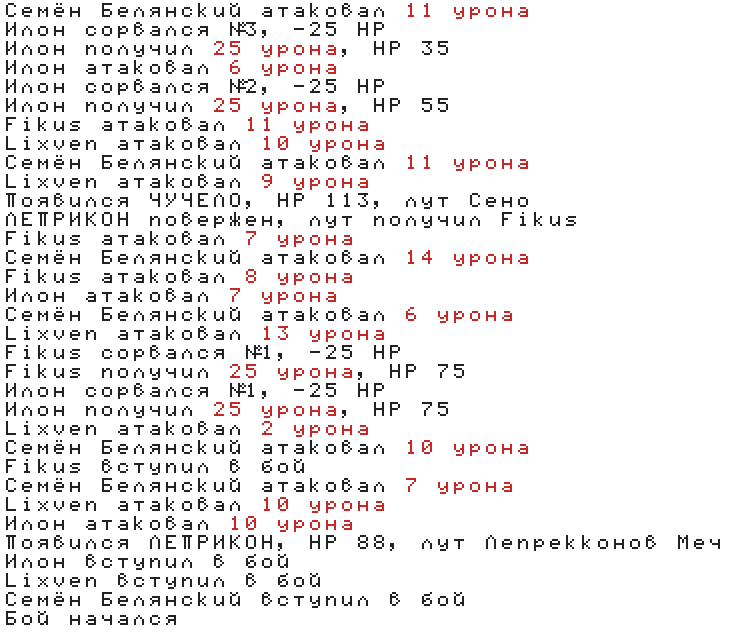
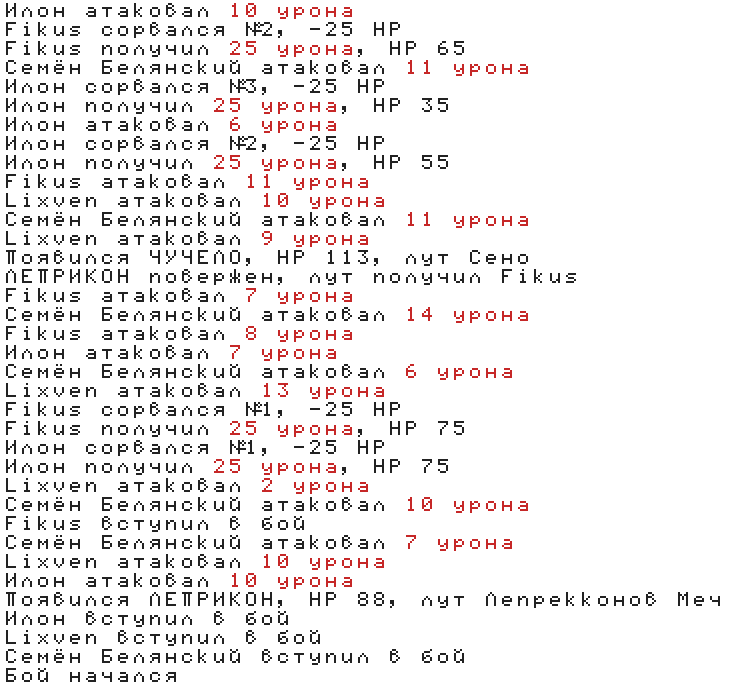
Обновление темы 2026-10-04 01:54 UTC

diff --git a/topic.html b/topic.html
@@ -11,7 +11,7 @@
  .author{font-weight:600} .when{color:#888;font-size:14px}
  .body{white-space:pre-wrap}
 </style></head><body><div class="wrap"><h1>[Команда] ЗАКОН КУБА - Ролевые игры без онанизма</h1>
-<div style="color:#666;font-size:14px;margin-bottom:20px">Постов: 35 · обновлено 03.10.2026 22:29</div>
+<div style="color:#666;font-size:14px;margin-bottom:20px">Постов: 37 · обновлено 04.10.2026 04:54</div>
 <div class="post" id="post-2717316"><div class="head"><span class="author">Семён Белянский</span><span class="when">2026-09-16T12:46:27+00:00</span></div><div class="body">И снова здравствуйте!
 У меня есть по моему мнению замечательное предложение. Было бы очень круто, если некоторые Ведущие брали бы старые Команды (лучше всего ролевые), и восстанавливали их! То есть, брали бы, писали бы в заголовке например: [Восстановленная команда] (название).
 И в правилах Команды написали бы, что ранее уже была точно такая же команда, давали бы ссылку на неё... А потом правила.
@@ -105,4 +105,6 @@
 !срыв 02.10</div></div>
 <div class="post" id="post-2720396"><div class="head"><span class="author">Семён Белянский</span><span class="when">2026-10-03T08:17:14+00:00</span></div><div class="body">+атака</div></div>
 <div class="post" id="post-2720511"><div class="head"><span class="author">Lixven</span><span class="when">2026-10-03T16:49:56+00:00</span></div><div class="body">+атака</div></div>
+<div class="post" id="post-2720563"><div class="head"><span class="author">Fikus</span><span class="when">2026-10-03T23:02:14+00:00</span></div><div class="body">!срыв 03.10</div></div>
+<div class="post" id="post-2720570"><div class="head"><span class="author">Илон</span><span class="when">2026-10-04T00:49:49+00:00</span></div><div class="body">+атака</div></div>
 </div></body></html>
